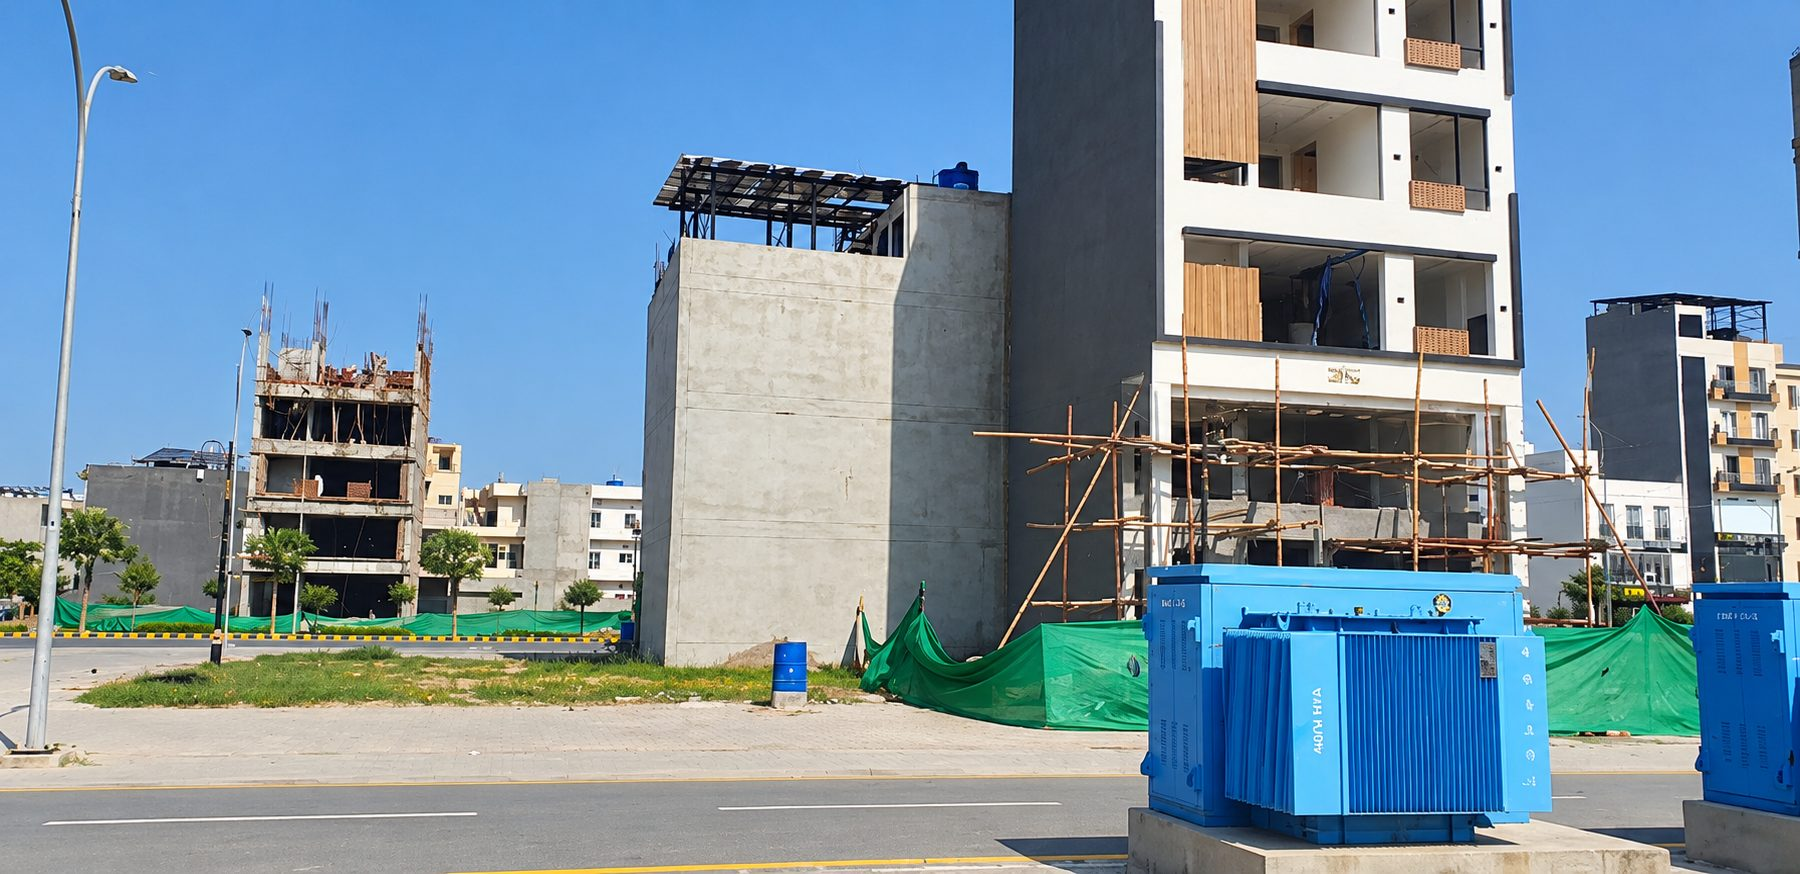
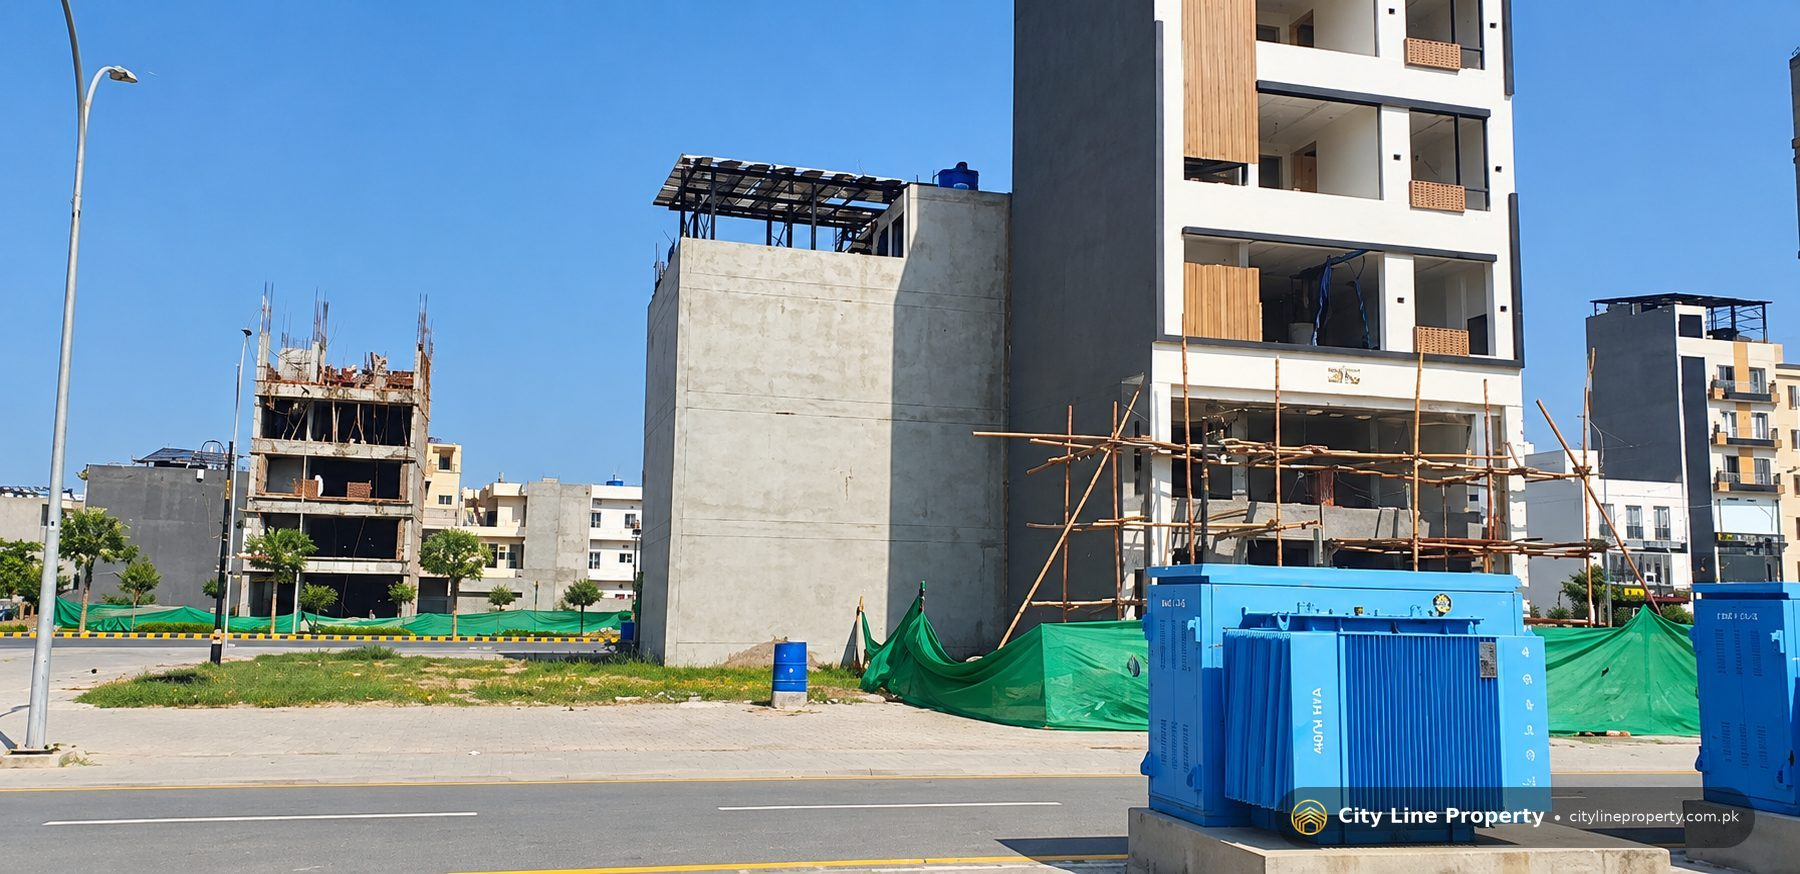
feat(admin): CLP watermark baked into listing photos — new /api/admin/upload route (sharp, DB-stored) + one-time batch over all 23 existing photos; photographic PNGs converted to JPEG (9 DB refs updated, ~4.5MB saved)

Changed region(s): [[0.6844, 0.8959, 0.9956, 0.9886]]

diff --git a/src/lib/watermark-lockup.ts b/src/lib/watermark-lockup.ts
@@ -1,0 +1,10 @@
+/**
+ * CLP watermark lockup (dark pill + golden logo + brand name + domain),
+ * pre-rendered as PNG and embedded as base64 so the sharp-based upload
+ * route can composite it on any runtime (local dev + Vercel serverless)
+ * without filesystem or font dependencies.
+ *
+ * Regenerate with .zscripts/tmp/make-watermark.py if the logo changes.
+ */
+export const WATERMARK_LOCKUP_BASE64 =
[1 lines of base64/hex data omitted]

diff --git a/src/app/api/admin/upload/route.ts b/src/app/api/admin/upload/route.ts
@@ -1,0 +1,104 @@
+import { NextRequest, NextResponse } from "next/server";
+import sharp from "sharp";
+import { db } from "@/lib/db";
+import { guardAdmin } from "@/lib/auth";
+import { WATERMARK_LOCKUP_BASE64 } from "@/lib/watermark-lockup";
+
+export const runtime = "nodejs"; // sharp requires the Node runtime
+export const dynamic = "force-dynamic";
+
+/**
+ * Admin image upload — bakes the CLP watermark into the pixels.
+ *
+ * Like zameen.com, every listing photo carries the brand mark so downloaded
+ * copies stay branded: a translucent dark pill with the golden CLP logo +
+ * "City Line Property · citylineproperty.com.pk" is composited into the
+ * bottom-right corner at upload time. The watermark is part of the stored
+ * image — it cannot be stripped by copying the file.
+ *
+ * Pipeline: EXIF rotate → flatten → cap 1920px → composite watermark →
+ * JPEG q82 progressive → stored in the MediaFile table (base64) and served
+ * from /api/media/<id> with immutable edge caching.
+ */
+const MAX_BYTES = 10 * 1024 * 1024; // 10MB raw upload cap
+const MAX_WIDTH = 1920; // matches the site photo pipeline
+const ALLOWED = new Set(["image/jpeg", "image/png", "image/webp"]);
+
+const lockupBuffer = Buffer.from(WATERMARK_LOCKUP_BASE64, "base64");
+
+export async function POST(req: NextRequest) {
+  const unauthorized = await guardAdmin();
+  if (unauthorized) return unauthorized;
+
+  let file: File | null = null;
+  try {
+    const fd = await req.formData();
+    const candidate = fd.get("file");
+    if (candidate instanceof File) file = candidate;
+  } catch {
+    return NextResponse.json({ error: "Malformed upload. Please try again." }, { status: 400 });
+  }
+  if (!file) {
+    return NextResponse.json({ error: "No file received." }, { status: 400 });
+  }
+  if (!ALLOWED.has(file.type)) {
+    return NextResponse.json(
+      { error: "Only JPG, PNG or WebP images are allowed." },
+      { status: 415 }
+    );
+  }
+  if (file.size > MAX_BYTES) {
+    return NextResponse.json({ error: "Image is too large (max 10MB)." }, { status: 413 });
+  }
+
+  try {
+    const raw = Buffer.from(await file.arrayBuffer());
+
+    // 1) Orient by EXIF, flatten any transparency onto white, cap width.
+    const base = sharp(raw, { failOn: "none" })
+      .rotate()
+      .flatten({ background: "#ffffff" })
+      .resize({ width: MAX_WIDTH, withoutEnlargement: true });
+    const resized = await base.toBuffer();
+    const meta = await sharp(resized).metadata();
+    const w = meta.width ?? MAX_WIDTH;
+    const h = meta.height ?? Math.round((meta.width ?? 1) * 1.0);
+
+    // 2) Watermark geometry — identical rules to the one-time batch script
+    //    that watermarked the existing repo photos (.zscripts/tmp batch).
+    const lockupW = Math.min(480, Math.max(150, Math.round(w * 0.3)));
+    const lockup = await sharp(lockupBuffer)
+      .resize({ width: lockupW })
+      .png()
+      .toBuffer();
+    const lm = await sharp(lockup).metadata();
+    const marginX = Math.round(w * 0.025);
+    const marginBottom = Math.round(h * 0.03);
+    const left = Math.max(0, w - lockupW - marginX);
+    const top = Math.max(0, h - (lm.height ?? 1) - marginBottom);
+
+    // 3) Bake + encode.
+    const out = await sharp(resized)
+      .composite([{ input: lockup, left, top }])
+      .jpeg({ quality: 82, progressive: true, mozjpeg: true })
+      .toBuffer();
+
+    const row = await db.mediaFile.create({
+      data: {
+        filename: (file.name || "photo.jpg").replace(/\.[a-z0-9]+$/i, "") + ".jpg",
+        mime: "image/jpeg",
+        size: out.length,
+        data: out.toString("base64"),
+      },
+      select: { id: true },
+    });
+
+    return NextResponse.json({ ok: true, path: `/api/media/${row.id}` });
+  } catch (e) {
+    console.error("POST /api/admin/upload", e);
+    return NextResponse.json(
+      { error: "Could not process this image — try a different file." },
+      { status: 500 }
+    );
+  }
+}

diff --git a/src/components/site/admin/admin-listing-drawer.tsx b/src/components/site/admin/admin-listing-drawer.tsx
@@ -604,7 +604,8 @@ export function AdminListingDrawer({
             <Label className="text-[12px] text-neutral-500 dark:text-neutral-400">
               Photos{" "}
               <span className="text-neutral-400 dark:text-neutral-500">
-                · drag to reorder — first image is the cover
+                · drag to reorder — first image is the cover · uploaded photos
+                get the CLP watermark automatically (copy protection)
               </span>
             </Label>
             {form.images.length > 0 && (
